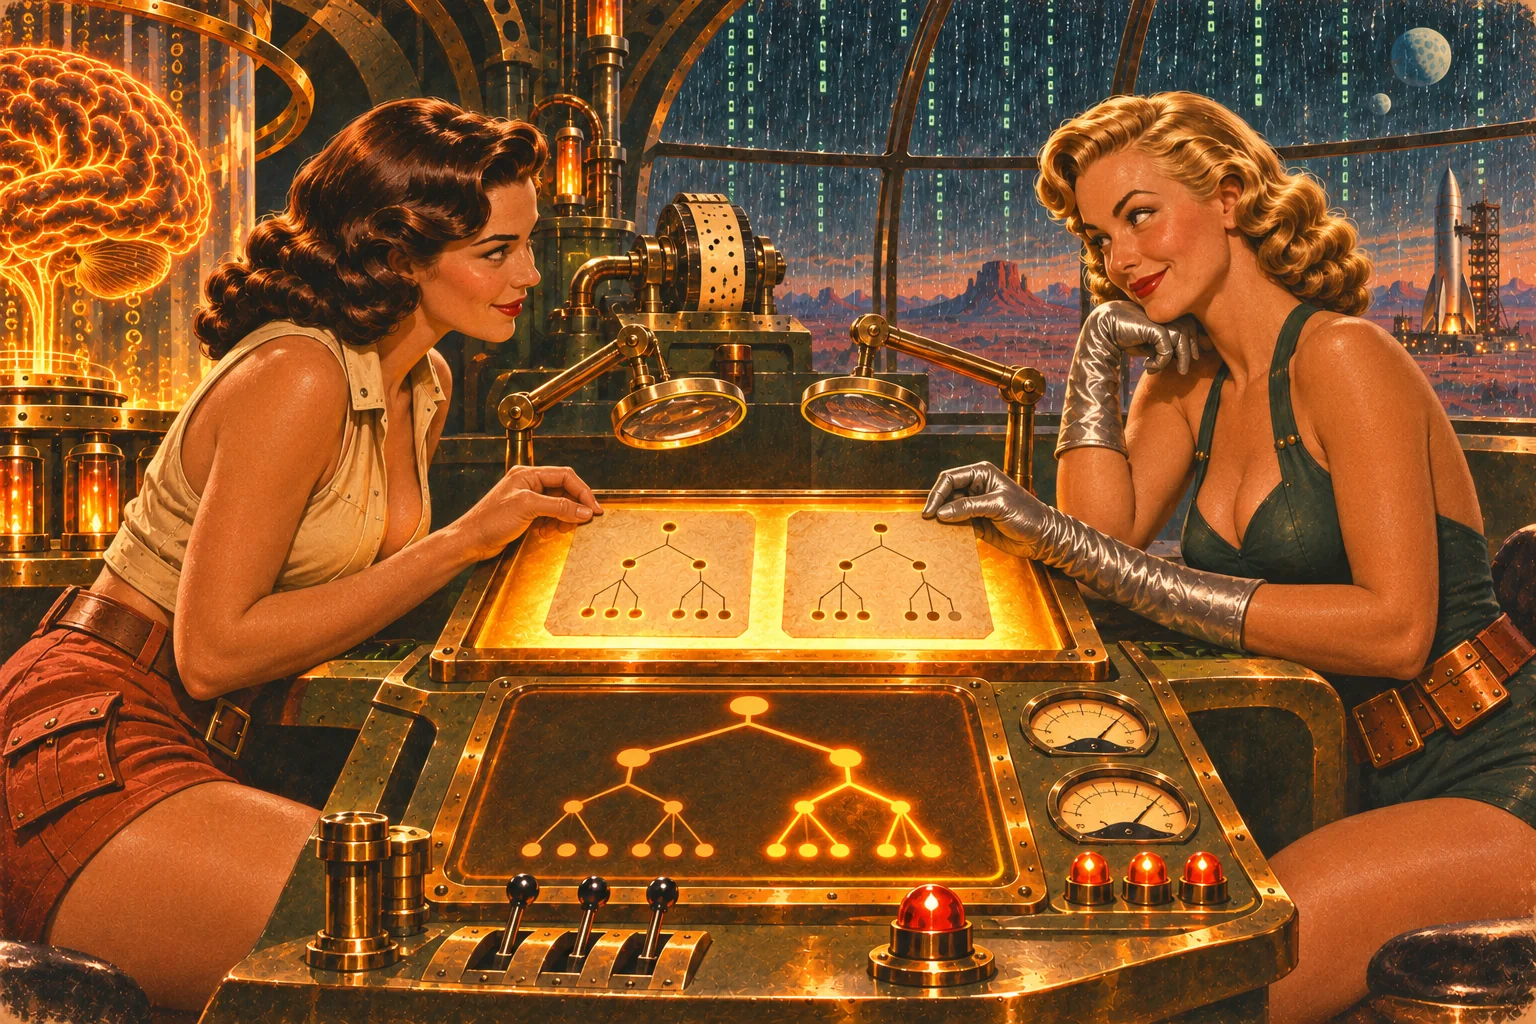
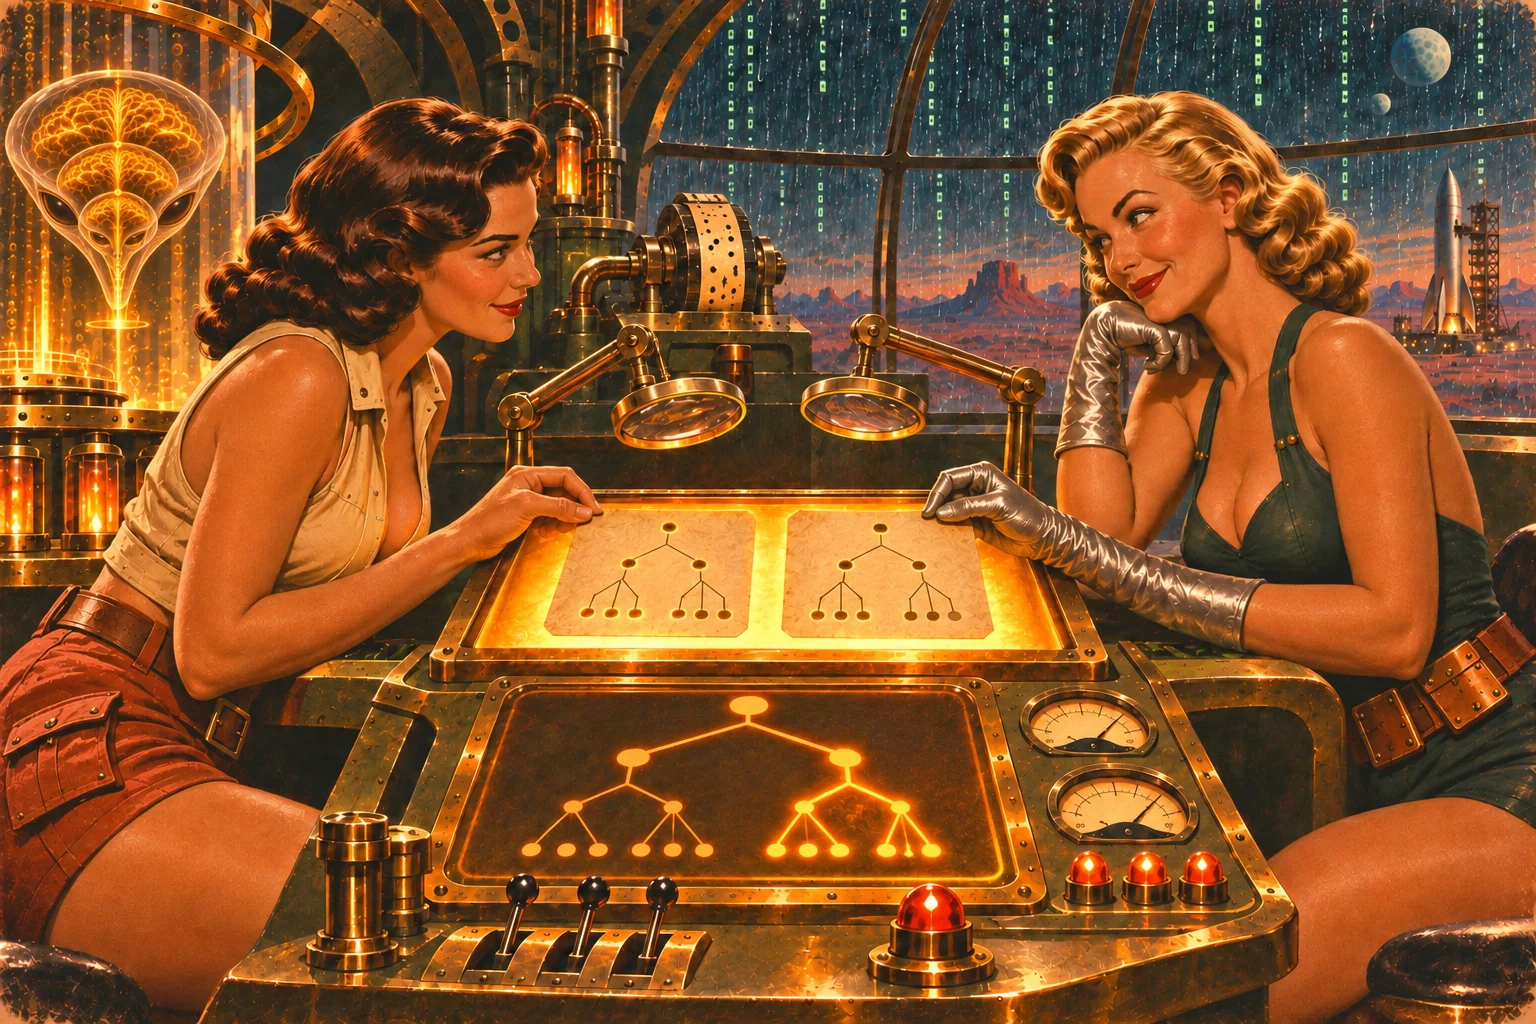
Refine Mentat artwork and add Hermes and Pi installs

diff --git a/docs/index.html b/docs/index.html
@@ -7,14 +7,14 @@
   <meta name="description" content="Mentat is an Agent Skill for recursive self-review, human-in-the-loop decisions, and scoped AGENTS.md guidance. Explore project context, hierarchy, and ontology.">
   <meta property="og:title" content="Mentat | An expedition into project context">
   <meta property="og:description" content="Teach agents how your project makes decisions. An Agent Skill for instruction hierarchy, human judgement, and recursive self-review.">
-  <meta property="og:image" content="https://insighttful.github.io/mentat/assets/self-review.webp">
-  <meta property="og:image:alt" content="Two expedition analysts compare a recursive cyber-brain diagram on a brass analog computer.">
+  <meta property="og:image" content="https://insighttful.github.io/mentat/assets/self-review.webp?v=2">
+  <meta property="og:image:alt" content="Two expedition analysts compare a recursive Grey alien brain diagram on a brass analog computer.">
   <meta property="og:url" content="https://insighttful.github.io/mentat/">
   <meta property="og:type" content="website">
   <link rel="canonical" href="https://insighttful.github.io/mentat/">
-  <link rel="icon" href="assets/self-review.webp" type="image/webp">
-  <link rel="stylesheet" href="site.css">
-  <script src="site.js" defer></script>
+  <link rel="icon" href="assets/self-review.webp?v=2" type="image/webp">
+  <link rel="stylesheet" href="site.css?v=2">
+  <script src="site.js?v=2" defer></script>
   <title>Mentat | Agent Skills for Recursive Project Guidance</title>
 </head>
 <body>
@@ -47,16 +47,26 @@
             </div>
           </div>
           <figure class="hero-plate">
-            <img src="assets/self-review.webp" width="1536" height="1024" fetchpriority="high"
-                 alt="Two expedition analysts leaning toward a brass computer look at a glowing brain diagram that contains a smaller copy of itself.">
+            <img src="assets/self-review.webp?v=2" width="1536" height="1024" fetchpriority="high"
+                 alt="Two expedition analysts look at a brass computer displaying a Grey alien brain scan with nested copies.">
             <figcaption>Self Review. Apply the same reasoning to the instruction that produced the result.</figcaption>
           </figure>
         </div>
 
         <div class="install" id="install" role="group" aria-labelledby="install-label">
-          <span class="install-label" id="install-label">Run in your project</span>
-          <code id="install-command">npx skills add Insighttful/mentat --skill mentat</code>
-          <button class="copy" id="copy-command" type="button" hidden>Copy command</button>
+          <div class="install-text">
+            <span class="install-label" id="install-label">Install from GitHub</span>
+            <code id="install-command">npx skills add Insighttful/mentat --skill mentat</code>
+          </div>
+          <div class="install-actions" id="install-actions" hidden>
+            <label class="sr-only" for="install-agent">Install for</label>
+            <select class="agent-select" id="install-agent">
+              <option value="">Default · Project</option>
+              <option value="--global --agent hermes-agent">Hermes Agent · Global</option>
+              <option value="--agent pi">Pi · Project</option>
+            </select>
+            <button class="copy" id="copy-command" type="button">Copy command</button>
+          </div>
           <span class="sr-only" id="copy-status" role="status"></span>
         </div>
       </div>
@@ -76,7 +86,7 @@
             <p>Find the judgement behind the feedback.</p>
           </li>
           <li>
-            <img src="assets/assess.webp" width="1536" height="1024" loading="lazy"
+            <img src="assets/assess.webp?v=2" width="1536" height="1024" loading="lazy"
                  alt="The analysts exchange a glance as they compare two punch cards against an illuminated project map.">
             <h3>Assess</h3>
             <p>Check its scope and whether an existing rule already covers it.</p>
@@ -117,8 +127,8 @@
               <p>Root <code>CONSTITUTION.md</code> sets project principles. Its changes require human-in-the-loop (HITL) approval.</p>
             </article>
             <article class="manual-chapter">
-              <img src="assets/hierarchy.webp" width="1536" height="1024" loading="lazy"
-                   alt="One lit path links smaller chambers to their parents in a recursively branching archive.">
+              <img src="assets/hierarchy.webp?v=2" width="1536" height="1024" loading="lazy"
+                   alt="One lit path links smaller Grey brain chambers to their parents in a recursively branching archive.">
               <h3>Instruction hierarchy</h3>
               <p>Each <code>AGENTS.md</code> adds rules for its scope. Load missing guidance from the work path to the root.</p>
             </article>
@@ -142,6 +152,8 @@
             <a href="https://code.claude.com/docs/en/skills">Claude Code</a>
             <a href="https://opencode.ai/docs/skills/">OpenCode</a>
             <a href="https://docs.windsurf.com/windsurf/cascade/skills">Windsurf</a>
+            <a href="https://hermes-agent.nousresearch.com/docs/user-guide/features/skills">Hermes Agent</a>
+            <a href="https://docs.pi.dev/latest/skills">Pi</a>
           </nav>
         </div>
       </div>
@@ -151,6 +163,7 @@
   <footer class="site-footer">
     <div class="wrap footer-inner">
       <a href="https://github.com/Insighttful">Insighttful</a>
+      <a href="https://www.skills.sh/insighttful/mentat/mentat">Mentat on skills.sh</a>
       <a href="https://agentskills.io/specification">Agent Skills specification</a>
     </div>
   </footer>

diff --git a/docs/site.css b/docs/site.css
@@ -40,6 +40,8 @@
   --display: Fraunces, Georgia, serif;
   --body: system-ui, sans-serif;
   --mono: ui-monospace, "SFMono-Regular", Consolas, monospace;
+  --radius-control: .55rem;
+  --radius-frame: .95rem;
   --layout: 82rem;
   --gutter: clamp(1rem, 4.2vw, 4rem);
 }
@@ -193,14 +195,14 @@ button { font: inherit; }
 .hero-summary { margin-top: .85rem; color: var(--muted-cream); }
 .hero-actions { display: flex; flex-wrap: wrap; gap: .7rem; margin-top: 1.4rem; }
 
-.button, .copy {
+.button, .copy, .agent-select {
   display: inline-flex;
   align-items: center;
   justify-content: center;
   min-height: 2.75rem;
   padding: .63rem .9rem;
   border: 1px solid transparent;
-  border-radius: 0;
+  border-radius: var(--radius-control);
   cursor: pointer;
   font-size: .93rem;
   font-weight: 700;
@@ -216,6 +218,7 @@ button { font: inherit; }
 .hero-plate {
   overflow: hidden;
   border: 1px solid var(--gold);
+  border-radius: var(--radius-frame);
   background: var(--deep-ink);
 }
 
@@ -230,17 +233,22 @@ button { font: inherit; }
 
 .install {
   display: grid;
-  grid-template-columns: auto minmax(0, 1fr) auto;
+  grid-template-columns: minmax(0, 1fr) auto;
   align-items: center;
   gap: .7rem clamp(.85rem, 2vw, 1.65rem);
   margin-top: 1.3rem;
   padding: .65rem;
   border: 1px solid var(--ink-line);
+  border-radius: var(--radius-frame);
   background: var(--deep-ink);
 }
 
-.install-label { padding-inline-start: .5rem; color: var(--olive); font-size: .85rem; font-weight: 660; }
+.install-text { display: flex; flex-wrap: wrap; align-items: center; gap: .25rem 1rem; min-width: 0; }
+.install-label { color: var(--olive); font-size: .85rem; font-weight: 660; }
 .install code { min-width: 0; overflow-wrap: anywhere; color: var(--cream); font-size: clamp(.82rem, 1.3vw, 1.02rem); }
+.install-actions { display: flex; flex-wrap: wrap; align-items: center; gap: .5rem; }
+.agent-select { background: var(--deep-ink); color: var(--cream); border-color: var(--paper-rule); }
+.agent-select:hover { border-color: var(--gold); }
 .copy { min-width: 8.5rem; }
 
 .paper {
@@ -278,6 +286,7 @@ button { font: inherit; }
 .method-flow img, .manual-chapter img {
   aspect-ratio: 3 / 2;
   border: 1px solid var(--paper-rule);
+  border-radius: var(--radius-frame);
   object-fit: cover;
 }
 
@@ -350,8 +359,7 @@ button { font: inherit; }
   .hero-text { max-width: 34rem; }
   .hero-text h1 { font-size: clamp(5.15rem, 16vw, 7.15rem); }
   .hero-lead { text-wrap: initial; }
-  .install { grid-template-columns: minmax(0, 1fr) auto; }
-  .install-label { grid-column: 1 / -1; padding-inline-start: 0; }
+  .install { grid-template-columns: minmax(0, 1fr); }
   .section-intro { grid-template-columns: 1fr; }
   .field-example, .manual-grid { gap: 1.7rem 1.5rem; }
 }
@@ -362,8 +370,7 @@ button { font: inherit; }
   .departure { padding-block: 1.4rem 1.7rem; }
   .hero-actions .button { flex: 1 1 auto; }
   .install { padding: .7rem; gap: .5rem; }
-  .install code { grid-column: 1 / -1; }
-  .copy { grid-column: 1 / -1; justify-self: start; min-width: 0; }
+  .install-actions > * { min-width: 0; }
   .method-flow { grid-template-columns: 1fr; }
   .method-flow li + li { padding-top: .85rem; border-top: 1px solid var(--paper-rule); }
   .field-example, .manual-grid { grid-template-columns: 1fr; }

diff --git a/docs/site.js b/docs/site.js
@@ -1,14 +1,24 @@
 const copyButton = document.querySelector("#copy-command");
 const command = document.querySelector("#install-command");
 const status = document.querySelector("#copy-status");
+const agent = document.querySelector("#install-agent");
+const installCommand = command.textContent;
 
-copyButton.hidden = false;
+document.querySelector("#install-actions").hidden = false;
+agent.addEventListener("change", () => {
+  command.textContent = agent.value ? `${installCommand} ${agent.value}` : installCommand;
+  copyButton.textContent = "Copy command";
+  status.textContent = "Install command updated.";
+});
 copyButton.addEventListener("click", async () => {
+  const selectedCommand = command.textContent;
   try {
-    await navigator.clipboard.writeText(command.textContent);
+    await navigator.clipboard.writeText(selectedCommand);
+    if (command.textContent !== selectedCommand) return;
     copyButton.textContent = "Copied";
     status.textContent = "Install command copied.";
   } catch {
+    if (command.textContent !== selectedCommand) return;
     const selection = window.getSelection();
     const range = document.createRange();
     range.selectNodeContents(command);

diff --git a/README.md b/README.md
@@ -1,13 +1,29 @@
 # Mentat
 
+![Two expedition analysts study a recursive Grey alien brain scan on a brass console.](docs/assets/self-review.webp)
+
 Mentat is an Agent Skill by [Insighttful](https://github.com/Insighttful) that turns human judgement into scoped project rules. It uses instruction hierarchy, human-in-the-loop (HITL) decisions, and recursive self-review to keep project context useful.
 
-[Visit the project site](https://insighttful.github.io/mentat/) or [read the skill](skills/mentat/SKILL.md).
+[Visit the project site](https://insighttful.github.io/mentat/) · [Find Mentat on skills.sh](https://www.skills.sh/insighttful/mentat/mentat) · [Read the skill](skills/mentat/SKILL.md)
 
 ## Install
 
+Run the default install from your project directory.
+
 ```sh
 npx skills add Insighttful/mentat --skill mentat
+```
+
+For [Hermes Agent](https://hermes-agent.nousresearch.com/docs/user-guide/features/skills), install globally.
+
+```sh
+npx skills add Insighttful/mentat --skill mentat --global --agent hermes-agent
+```
+
+For [Pi](https://docs.pi.dev/latest/skills), run from your project directory.
+
+```sh
+npx skills add Insighttful/mentat --skill mentat --agent pi
 ```
 
 Ask the agent to use `mentat` when you need to capture a standing decision, learn from recurring feedback, or review project alignment. Try “Use Mentat to assess this correction and propose the smallest standing rule.”
